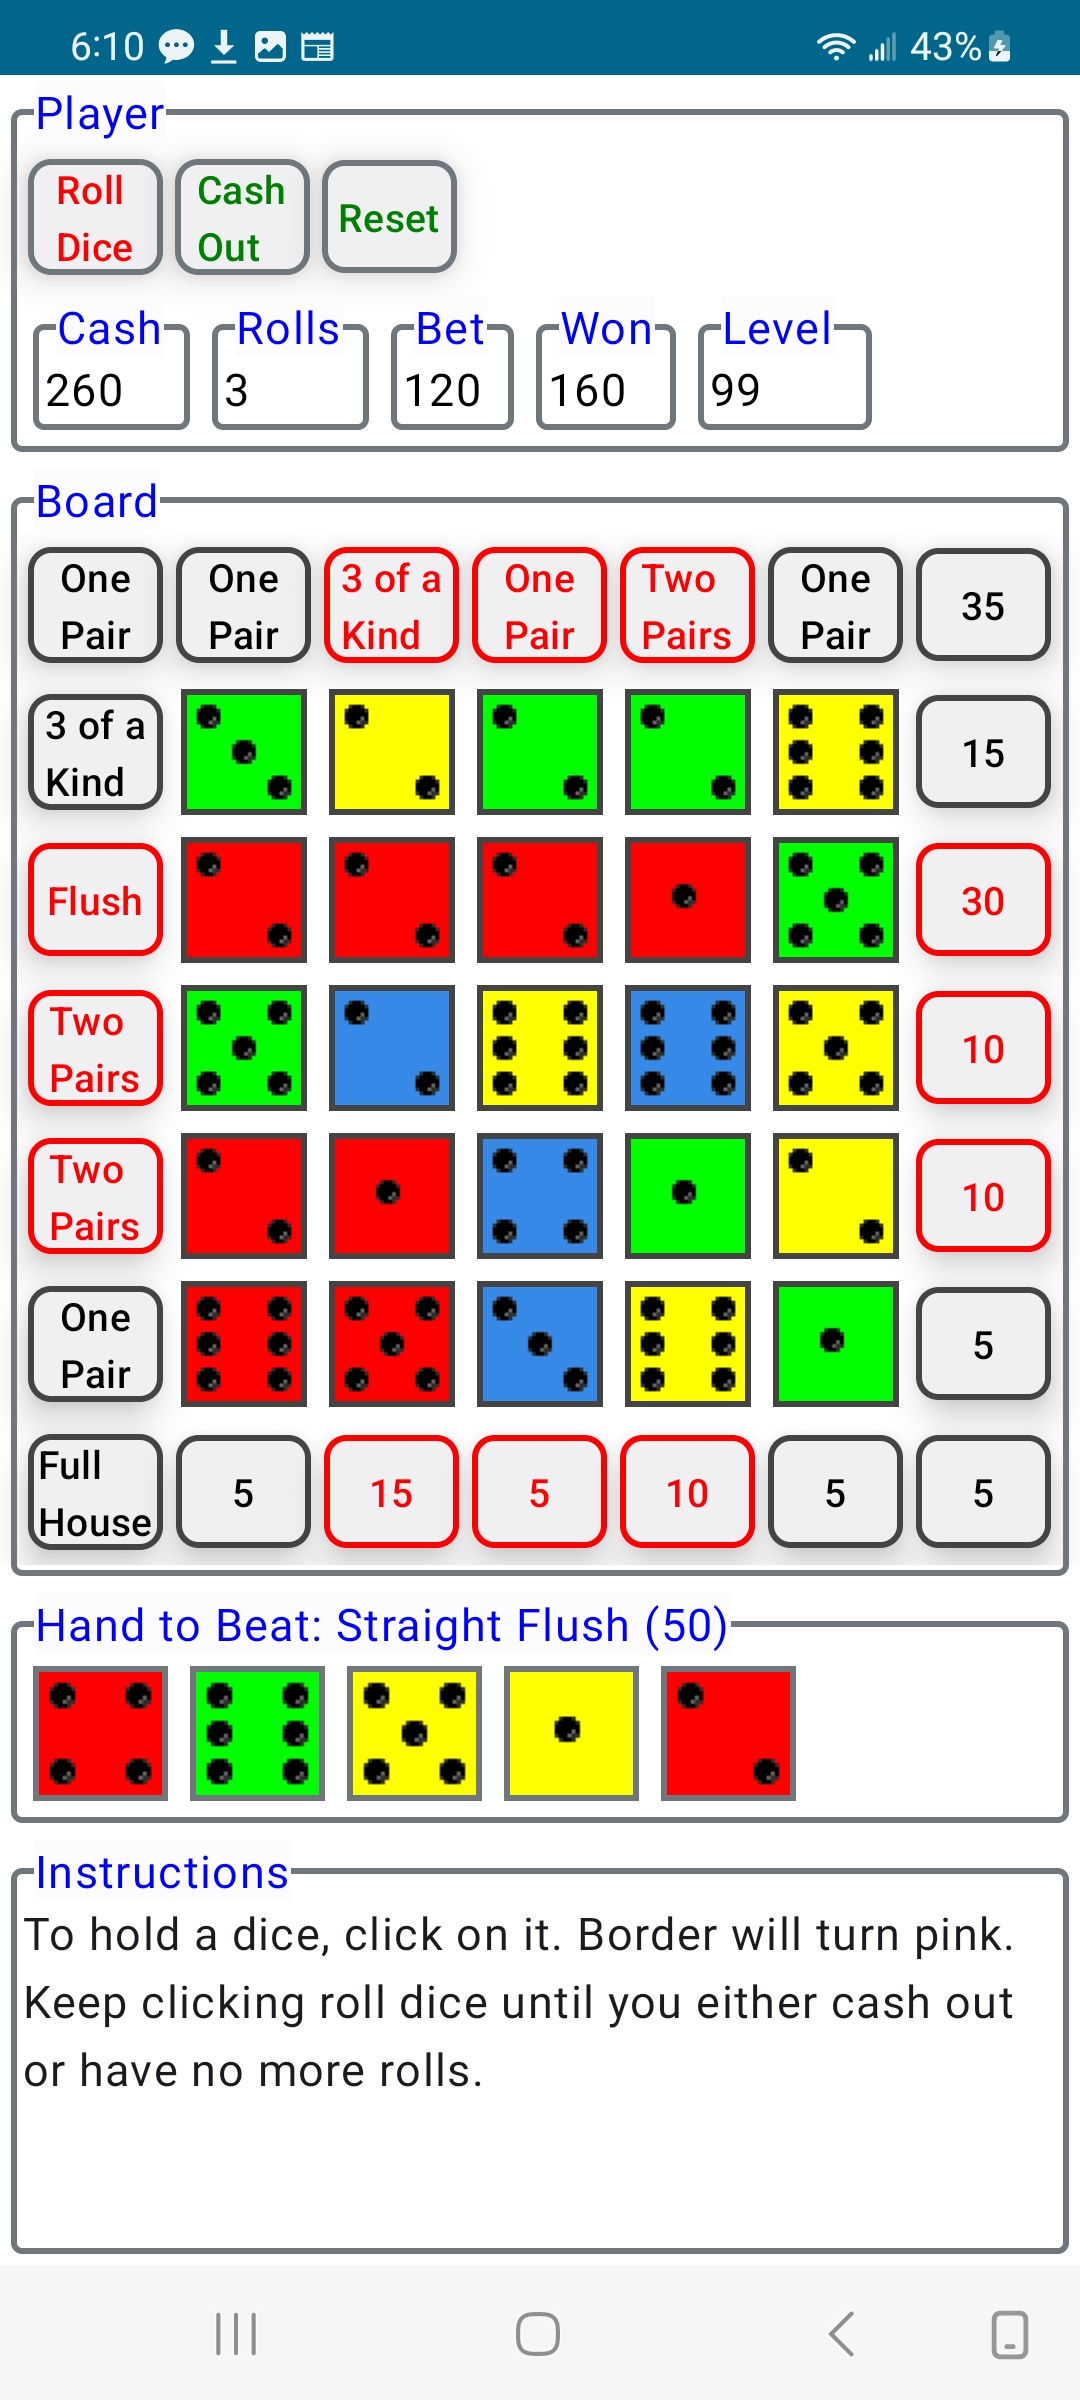
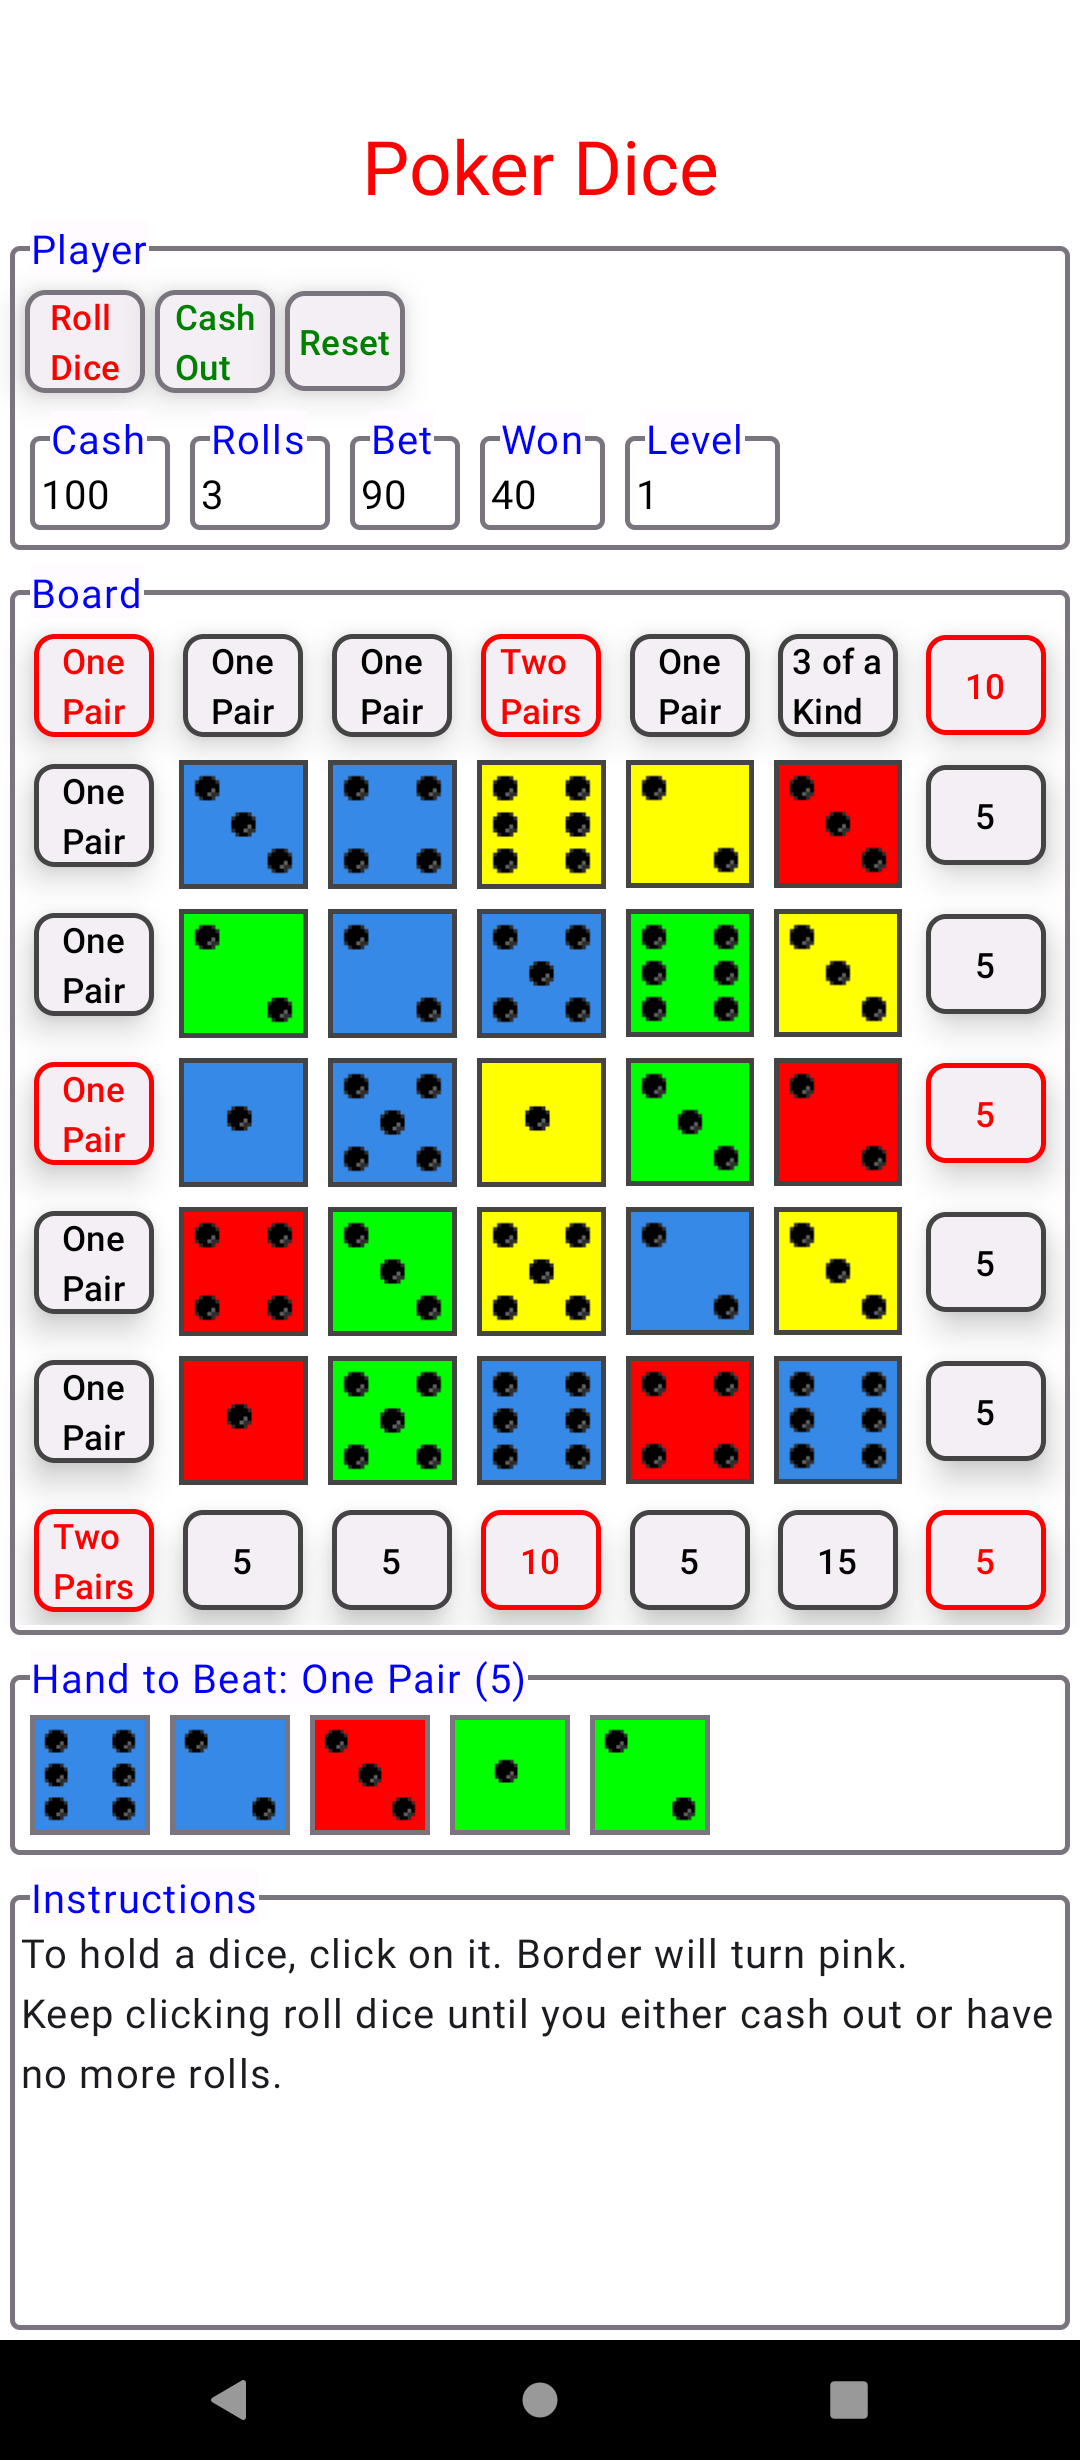
Added Poker Dice title in red at top.

diff --git a/app/src/main/java/com/pstorli/pokerdice/domain/model/PokerViewModel.kt b/app/src/main/java/com/pstorli/pokerdice/domain/model/PokerViewModel.kt
@@ -21,6 +21,7 @@ import com.pstorli.pokerdice.util.Consts.GAME_SAVED
 import com.pstorli.pokerdice.util.Consts.DICE_IN_HAND
 import com.pstorli.pokerdice.util.Consts.NO_TEXT
 import com.pstorli.pokerdice.util.Consts.NUM_SQUARES
+import com.pstorli.pokerdice.util.Consts.ONE
 import com.pstorli.pokerdice.util.Consts.ROLLS_MAX
 import com.pstorli.pokerdice.util.Consts.SQUARE_BET_COST
 import com.pstorli.pokerdice.util.Consts.SQUARE_FIRST
@@ -53,7 +54,7 @@ class PokerViewModel (val app: Application) : AndroidViewModel(app) {
 
     // How much cash, rolls and bets have we?
     var bet                     by mutableStateOf<Int>(0)
-    var cash                    by mutableStateOf<Int>(0)
+    var cash                    by mutableStateOf<Int>(CASH_INITIAL)
 
     // How many rolls do we have left.
     var rolls                   by mutableStateOf<Int>(0)
@@ -62,7 +63,7 @@ class PokerViewModel (val app: Application) : AndroidViewModel(app) {
     val handToBeat              = mutableStateOf(Array<Die>(DICE_IN_HAND){Die()})
 
     // What level are we on?
-    var level                   by mutableStateOf<Int>(0)
+    var level                   by mutableStateOf<Int>(ONE)
 
     // Set this to show snackbar text.
     var snackBarText            by mutableStateOf<String> (NO_TEXT)
@@ -221,7 +222,7 @@ class PokerViewModel (val app: Application) : AndroidViewModel(app) {
                 Persist.COLOR_SUIT_DIAMOND  -> setColor (SUIT_NONE, if (app.inDarkMode ()) pokerDAO.color_suit_diamond.second   else pokerDAO.color_suit_diamond.first)
                 Persist.COLOR_SUIT_CLUB     -> setColor (SUIT_NONE, if (app.inDarkMode ()) pokerDAO.color_suit_club.second      else pokerDAO.color_suit_club.first)
                 Persist.COLOR_SUIT_SPADE    -> setColor (SUIT_NONE, if (app.inDarkMode ()) pokerDAO.color_suit_spade.second     else pokerDAO.color_suit_spade.first)
-                Persist.LEVEL               -> level     = 99 // pokerDAO.level
+                Persist.LEVEL               -> level     = pokerDAO.level
             }
         }
     }
@@ -338,8 +339,8 @@ class PokerViewModel (val app: Application) : AndroidViewModel(app) {
 
                 // The hand's value.
                 if (game.hasValue(hand)) {
-                    // They win if that square was selected.
-                    if (game.board[pos].selected) {
+                    // They win if that square was selected and they beat hand to beat.
+                    if (game.board[pos].selected && handScore > scoreHandToBeat ()) {
                         won = won + handScore
                     }
 
@@ -378,7 +379,6 @@ class PokerViewModel (val app: Application) : AndroidViewModel(app) {
      * User did something.
      */
     fun onEvent (pokerEvent: PokerEvent) {
-        "onEvent pokerEvent ${pokerEvent}".debug ()
         when (pokerEvent) {
             // Save button was pressed.
             is PokerEvent.StartEvent -> {

diff --git a/app/src/main/java/com/pstorli/pokerdice/domain/model/Game.kt b/app/src/main/java/com/pstorli/pokerdice/domain/model/Game.kt
@@ -11,7 +11,6 @@ import com.pstorli.pokerdice.util.Consts.SQUARE_BET_COST
 import com.pstorli.pokerdice.util.Consts.SQUARE_FIRST
 import com.pstorli.pokerdice.util.Consts.SUIT_NONE_VAL
 import com.pstorli.pokerdice.util.Consts.ZERO
-import com.pstorli.pokerdice.util.Consts.debug
 import com.pstorli.pokerdice.util.Consts.randomRank
 import com.pstorli.pokerdice.util.Consts.randomSuit
 
@@ -457,49 +456,41 @@ class Game () {
                 // Upper Left?
                 if (SQUARE_FIRST == row && SQUARE_FIRST == col) {
                     hand = getHandDiagonalUpperLeftToLowerRight ()
-                    debug ("getHandDiagonalUpperLeftToLowerRight $row $col Hand: $hand Index: $index")
                 }
 
                 // Lower left?
                 else if (SQUARE_LAST == row && SQUARE_FIRST == col) {
                     hand = getHandDiagonalUpperRightToLowerLeft ()
-                    debug ("getHandDiagonalUpperRightToLowerLeft $row $col Hand: $hand Index: $index")
                 }
 
                 // Upper Right?
                 else if (SQUARE_FIRST == row && SQUARE_LAST == col) {
                     hand = getHandDiagonalUpperRightToLowerLeft ()
-                    debug ("getHandDiagonalUpperRightToLowerLeft $row $col Hand: $hand Index: $index")
                 }
 
                 // Lower Right?
                 else if (SQUARE_LAST == row && SQUARE_LAST == col) {
                     hand = getHandDiagonalUpperLeftToLowerRight ()
-                    debug ("getHandDiagonalUpperLeftToLowerRight $row $col Hand: $hand Index: $index")
                 }
 
                 // Horiz top?
                 else if (SQUARE_FIRST == row) {
                     hand = getHandByColumn (col)
-                    debug ("getHandByColumn $row $col Hand: $hand Index: $index")
                 }
 
                 // Horiz Bottom
                 else if (SQUARE_LAST == row) {
                     hand = getHandByColumn (col)
-                    debug ("getHandByColumn $row $col Hand: $hand Index: $index")
                 }
 
                 // Vert Left Side
                 else if (SQUARE_FIRST == col) {
                     hand = getHandByRow (row)
-                    debug ("getHandByRow $row $col Hand: $hand Index: $index")
                 }
 
                 // Vert Right Side
                 else if (SQUARE_LAST == col) {
                     hand = getHandByRow (row)
-                    debug ("getHandByRow $row $col Hand: $hand Index: $index")
                 }
             }
         }

diff --git a/app/src/main/java/com/pstorli/pokerdice/ui/composeables/PlayerRow.kt b/app/src/main/java/com/pstorli/pokerdice/ui/composeables/PlayerRow.kt
@@ -8,7 +8,6 @@ import androidx.compose.ui.platform.LocalContext
 import androidx.compose.ui.res.stringResource
 import com.pstorli.pokerdice.R
 import com.pstorli.pokerdice.color
-import com.pstorli.pokerdice.debug
 import com.pstorli.pokerdice.domain.model.PokerViewModel
 import com.pstorli.pokerdice.ui.composeables.core.LabeledRow
 import com.pstorli.pokerdice.ui.composeables.core.OutlinedTextField
@@ -44,8 +43,6 @@ fun PlayerRow (pokerViewModel: PokerViewModel) {
                     name = rollTitle,
                     textColor = rollTextColor,
                     onClick = {
-                        "Roll dice pressed.".debug()
-
                         // They clicked roll.
                         playSound (R.raw.roll, pokerViewModel.getApplication())
 
@@ -64,8 +61,6 @@ fun PlayerRow (pokerViewModel: PokerViewModel) {
                         name = LocalContext.current.resources.getString(R.string.cash_out),
                         textColor = LocalContext.current.color(Colors.Btn),
                         onClick = {
-                            "Cash out pressed.".debug()
-
                             // They clicked the button.
                             pokerViewModel.onEvent(PokerEvent.CashOutEvent)
                         })
@@ -76,8 +71,6 @@ fun PlayerRow (pokerViewModel: PokerViewModel) {
                     name = LocalContext.current.resources.getString(R.string.reset),
                     textColor = LocalContext.current.color(Colors.Btn),
                     onClick = {
-                        "Reset pressed.".debug()
-
                         // They clicked the reset button.
                         pokerViewModel.onEvent(PokerEvent.ResetEvent)
                     })

diff --git a/app/src/main/java/com/pstorli/pokerdice/ui/composeables/Board.kt b/app/src/main/java/com/pstorli/pokerdice/ui/composeables/Board.kt
@@ -13,7 +13,6 @@ import com.pstorli.pokerdice.domain.model.PokerEvent
 import com.pstorli.pokerdice.ui.theme.Colors
 import com.pstorli.pokerdice.util.Consts
 import com.pstorli.pokerdice.util.Consts.BOARD_SIZE
-import com.pstorli.pokerdice.util.Consts.debug
 
 @Composable
 fun Board (pokerViewModel: PokerViewModel) {
@@ -44,16 +43,12 @@ fun Board (pokerViewModel: PokerViewModel) {
                     // This will detect any changes to the board edge and recompose your composable.
                     pokerViewModel.onUpdateBoardEdge.value
 
-                    debug ("Name: $die.name Index: $index.")
-
                     // Use PokerButton for edge squares.
                     PokerButton(
                         name        = die.name,
                         textColor   = color,
                         borderColor = bc,
                         onClick     = {
-                            debug ("They clicked on the edge $index.")
-
                             // Do a different sound if de-selecting the square.
                             die = pokerViewModel.game.getDie (index)
                             if (die.selected) {
@@ -76,8 +71,6 @@ fun Board (pokerViewModel: PokerViewModel) {
                     // Dice -> die: Die, backColor: Color=MaterialTheme.colorScheme.background, borderColor: Color=MaterialTheme.colorScheme.outline, sizeDp: Dp?=null, onClick: (() -> Unit?)?
                     Dice (die, bc, onClick =
                     {
-                        debug ("They clicked on the board at $index.")
-
                         // They clicked the button on a board square.
                         pokerViewModel.onEvent(PokerEvent.BoardClickEvent (index))
                     })

diff --git a/app/src/main/java/com/pstorli/pokerdice/ui/screens/SettingsScreen.kt b/app/src/main/java/com/pstorli/pokerdice/ui/screens/SettingsScreen.kt
@@ -10,7 +10,6 @@ import androidx.compose.ui.platform.LocalContext
 import androidx.compose.ui.res.stringResource
 import com.pstorli.pokerdice.R
 import com.pstorli.pokerdice.color
-import com.pstorli.pokerdice.debug
 import com.pstorli.pokerdice.domain.model.PokerEvent
 import com.pstorli.pokerdice.domain.model.PokerViewModel
 import com.pstorli.pokerdice.ui.composeables.PokerButton
@@ -38,8 +37,6 @@ fun SettingsScreen (pokerViewModel: PokerViewModel) {
                 name = LocalContext.current.resources.getString(R.string.save),
                 textColor = LocalContext.current.color(Colors.Btn),
                 onClick = {
-                    "Save pressed.".debug()
-
                     // They clicked the button.
                     pokerViewModel.onEvent(PokerEvent.SaveEvent)
                 })
@@ -49,8 +46,6 @@ fun SettingsScreen (pokerViewModel: PokerViewModel) {
                 name = LocalContext.current.resources.getString(R.string.reset),
                 textColor = LocalContext.current.color(Colors.Wild),
                 onClick = {
-                    "Reset pressed.".debug()
-
                     // They clicked the button.
                     pokerViewModel.onEvent(PokerEvent.ResetEvent)
                 })
@@ -60,8 +55,6 @@ fun SettingsScreen (pokerViewModel: PokerViewModel) {
                 name = LocalContext.current.resources.getString(R.string.cancel),
                 textColor = LocalContext.current.color(Colors.Btn),
                 onClick = {
-                    "Cancel pressed.".debug()
-
                     // They clicked the button.
                     pokerViewModel.onEvent(PokerEvent.CancelEvent)
                 })

diff --git a/app/src/main/java/com/pstorli/pokerdice/ui/theme/Color.kt b/app/src/main/java/com/pstorli/pokerdice/ui/theme/Color.kt
@@ -1,7 +1,6 @@
 package com.pstorli.pokerdice.ui.theme
 
 import androidx.compose.ui.graphics.Color
-import com.pstorli.pokerdice.util.Consts
 import com.pstorli.pokerdice.util.Consts.SUIT_SPADE
 import com.pstorli.pokerdice.util.Consts.SUIT_HEART
 import com.pstorli.pokerdice.util.Consts.SUIT_CLUB
@@ -102,7 +101,6 @@ fun getColor (suit: Int, darkMode: Boolean=false): Color {
         SUIT_CLUB       -> if (darkMode) color = DICE_DK_SUIT_CLUB      else color = DICE_LT_SUIT_CLUB
         SUIT_SPADE      -> if (darkMode) color = DICE_DK_SUIT_SPADE     else color = DICE_LT_SUIT_SPADE
     }
-    Consts.debug("getColor $suit $darkMode"+color.toString())
     return color
 }
 
@@ -117,8 +115,6 @@ fun setColor (num: Int, color: Color, darkMode: Boolean=false) {
         SUIT_CLUB       -> if (darkMode) DICE_DK_SUIT_CLUB      = color else DICE_LT_SUIT_CLUB      = color
         SUIT_SPADE      -> if (darkMode) DICE_DK_SUIT_SPADE     = color else DICE_LT_SUIT_SPADE     = color
     }
-
-    Consts.debug("setColor $num $darkMode"+color.toString())
 }
 
 /**
@@ -143,7 +139,6 @@ fun getColor (name: Colors, darkMode: Boolean=false): Color {
         Colors.Text             -> if (darkMode) color = COLOR_DK_TEXT              else color = COLOR_LT_TEXT
         Colors.Title            -> if (darkMode) color = COLOR_DK_TITLE             else color = COLOR_LT_TITLE
     }
-    Consts.debug("getColor $name $darkMode"+color.toString())
     return color
 }
 

diff --git a/app/src/main/java/com/pstorli/pokerdice/ui/composeables/Title.kt b/app/src/main/java/com/pstorli/pokerdice/ui/composeables/Title.kt
@@ -1,0 +1,28 @@
+package com.pstorli.pokerdice.ui.composeables
+
+import androidx.compose.foundation.layout.Arrangement
+import androidx.compose.foundation.layout.Column
+import androidx.compose.foundation.layout.fillMaxWidth
+import androidx.compose.material.Text
+import androidx.compose.runtime.Composable
+import androidx.compose.ui.Alignment
+import androidx.compose.ui.Modifier
+import androidx.compose.ui.graphics.Color
+import androidx.compose.ui.res.stringResource
+import com.pstorli.pokerdice.R
+import com.pstorli.pokerdice.util.Consts
+
+@Composable
+fun Title () {
+    Column(
+        modifier            = Modifier.fillMaxWidth(),
+        verticalArrangement = Arrangement.Top,
+        horizontalAlignment = Alignment.CenterHorizontally
+    ) {
+        Text(
+            stringResource(R.string.app_name_readable),
+            color           = Color.Red,
+            fontSize        = Consts.TITLE_FONT_SIZE_SP
+        )
+    }
+}

diff --git a/app/src/main/java/com/pstorli/pokerdice/ui/screens/MainScreen.kt b/app/src/main/java/com/pstorli/pokerdice/ui/screens/MainScreen.kt
@@ -17,6 +17,7 @@ import com.pstorli.pokerdice.ui.composeables.HandToBeat
 import com.pstorli.pokerdice.ui.composeables.Instructions
 import com.pstorli.pokerdice.ui.composeables.PlayerRow
 import com.pstorli.pokerdice.ui.composeables.SideDrawer
+import com.pstorli.pokerdice.ui.composeables.Title
 import com.pstorli.pokerdice.ui.theme.Colors
 import com.pstorli.pokerdice.util.Consts.NO_TEXT
 
@@ -38,6 +39,7 @@ fun MainScreen (pokerViewModel: PokerViewModel) {
         Column(
             modifier = Modifier.background(LocalContext.current.color(Colors.Back)).padding(padding)
         ) {
+            Title ()
             PlayerRow(pokerViewModel)
             Board(pokerViewModel)
             HandToBeat(pokerViewModel)

diff --git a/app/src/main/java/com/pstorli/pokerdice/util/Consts.kt b/app/src/main/java/com/pstorli/pokerdice/util/Consts.kt
@@ -64,7 +64,7 @@ object Consts {
     val SUIT_COLOR_CLUB                 = "Suit Color Club"
     val SUIT_COLOR_SPADE                = "Suit Color Spade"
 
-    val TITLE_HEIGHT_DP                 = 48.dp
+    val TITLE_FONT_SIZE_SP              = 30.sp
 
     val DISABLED_ELEVATION_VAL_DP       = 0.dp
     val HAND_TO_BEAT_DICE_DP            = 48.dp
@@ -134,7 +134,6 @@ object Consts {
      */
     fun randomRank (): Int {
         val num = (RANK_ONE..RANK_SIX).random()
-        debug("random () $num")
         return num
     }
 
@@ -143,7 +142,6 @@ object Consts {
      */
     fun randomSuit (): Int {
         val num = (SUIT_HEART..SUIT_SPADE).random()
-        debug("random () $num")
         return num
     }
 

diff --git a/app/src/main/java/com/pstorli/pokerdice/domain/model/PokerScorer.kt b/app/src/main/java/com/pstorli/pokerdice/domain/model/PokerScorer.kt
@@ -83,7 +83,7 @@ class PokerScorer () {
         // First look for a flush.
         val suitCounts = getSuitCount(dice)
         for (element in suitCounts) {
-            if (element >= MAX_SUIT) {
+            if (element >= DICE_IN_HAND) {
                 flush = true
                 break
             }
@@ -254,7 +254,6 @@ class PokerScorer () {
      *
      * @paarm start
      * @param dice
-     * @param maxRank
      *
      * @return an array with the rank counts.
      *
